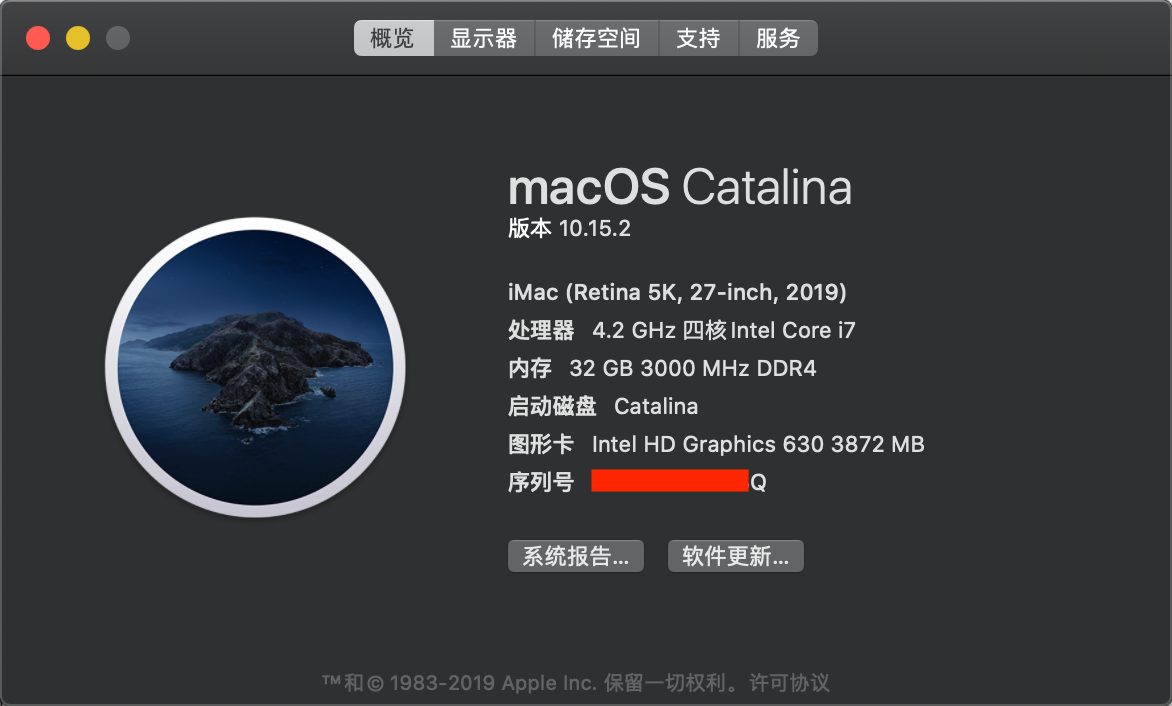
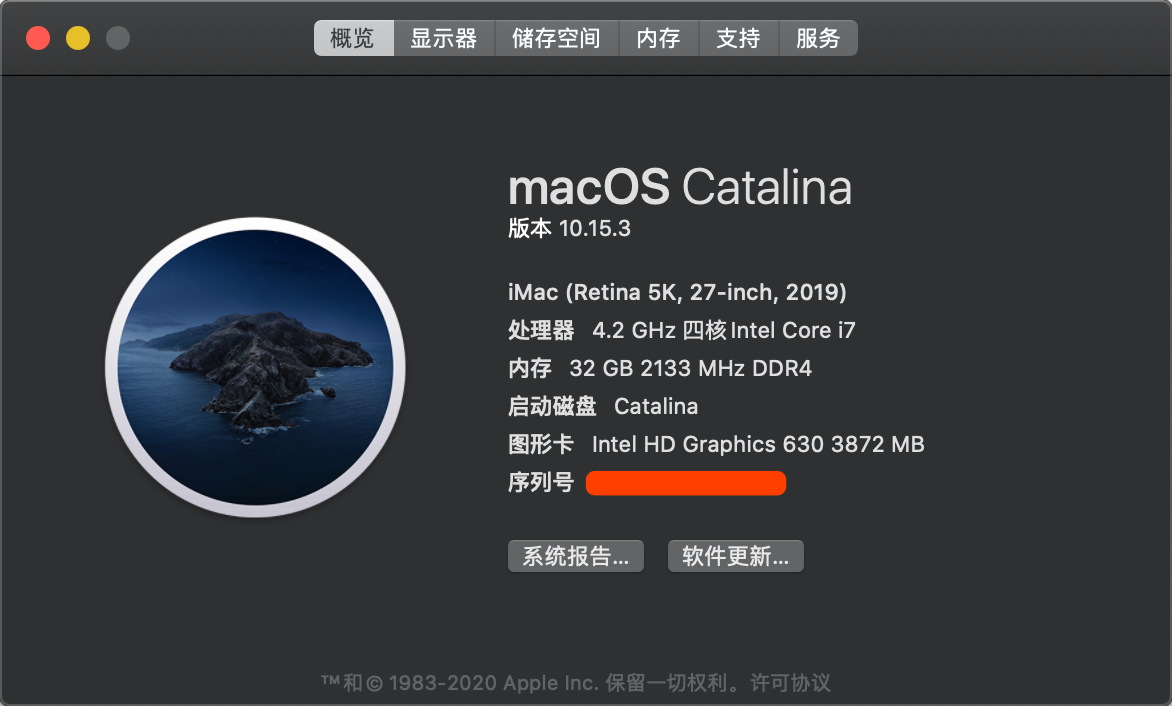
Update README

diff --git a/README.md b/README.md
@@ -1,12 +1,12 @@
-# HacMini:  Z270i + 7700K  + DDR4 3000MHz
+# HacMini:  Z270i + 7700K
 
-> OpenCore 引导测试中，具体配置可在 opencore 分支查看
+> OpenCore 引导测试中，请尽量在 U 盘中尝试。
 
 ### 引导
 
-**Clover Version**： [v2.5k r5070](https://sourceforge.net/projects/cloverefiboot/files/Installer/)
+**OpenCore Version**： [0.5.6](https://github.com/acidanthera/OpenCorePkg/releases)
 
-**macOS Version**：macOS Catalina 10.15.x
+**macOS Version**：macOS Catalina 10.15.3
 
 ### 配置单
 
@@ -23,25 +23,28 @@
 
 #### UEFIs
 
-* [AppleSupportPkg - 2.1.4](https://github.com/acidanthera/AppleSupportPkg) 
+* [AppleSupportPkg - 2.1.6](https://github.com/acidanthera/AppleSupportPkg) 
   * ApfsDriverLoader.efi
-
-* [AptioFixPkg - R27](https://github.com/acidanthera/AptioFixPkg/releases)
-  * AptioInputFix.efi
-  * AptioMemoryFix.efi
+* VBoxHfs.efi
+  
+* [OpenCorePkg - 0.5.6](https://github.com/acidanthera/OpenCorePkg)
+  * FwRuntimeServices.efi
 
 #### KEXTs
 
-* 驱动平台 [Lilu.kext - 1.4.0](https://github.com/acidanthera/Lilu)
-  * 声卡驱动 [AppleALC.kext - 1.4.4](https://github.com/acidanthera/AppleALC)
-  * 核心显卡驱动 [WhateverGreen.kext - 1.3.5](https://github.com/acidanthera/WhateverGreen)
-  * WiFi 驱动 [AirportBrcmFixup.kext - 2.0.4](https://github.com/acidanthera/AirportBrcmFixup)
-  * 蓝牙驱动 [BrcmPatchRAM  - 2.5.0](https://github.com/acidanthera/BrcmPatchRAM)
+* 驱动平台 [Lilu.kext - 1.4.2](https://github.com/acidanthera/Lilu)
+  * 声卡驱动 [AppleALC.kext - 1.4.7](https://github.com/acidanthera/AppleALC)
+  * 核心显卡驱动 [WhateverGreen.kext - 1.3.7](https://github.com/acidanthera/WhateverGreen)
+  * WiFi 驱动 [AirportBrcmFixup.kext - 2.0.6](https://github.com/acidanthera/AirportBrcmFixup)
+  * 蓝牙驱动 [BrcmPatchRAM  - 2.5.1](https://github.com/acidanthera/BrcmPatchRAM)
     * BrcmFirmwareData.kext
     * BrcmPatchRAM3.kext
     * BrcmBluetoothInjector.kext
-* USB 驱动：USBPort.kext 已定制
-* [FakeSMC.kext]()
+* USB 驱动：USBPort.kext + XHCI-unsupported.kext
+* [VirtualSMC.kext - 1.1.1](https://github.com/acidanthera/VirtualSMC/releases)
+  * SMCProcessor.kext
+  * SMCSuperIO.kext
+* 有线网卡：[IntelMausiEthernet.kext - 2.5.0](https://github.com/Mieze/IntelMausiEthernet)
 
 ### 支持功能
 
@@ -50,6 +53,8 @@
 * 无线：2.4G/5G WiFi 正常、蓝牙外设正常
 
 * [连接互通](https://support.apple.com/zh-cn/HT204681)：支持接力、通用剪贴板、iPhone 蜂窝网络电话、信息转发、智能热点、隔空投送等
+
+* USB 已定制，USB2.0 x 8, USB 3.0 x 5。（后置 TYPE-C 是鸡肋的 USB 3.1 gen1 ，因数量限制，暂未启用）
 
   
 
@@ -65,10 +70,10 @@
 
 ![About Mac](Screenshots/About.png)
 
-**WiFi**
+**Hackintool**
 
-![WiFi 3](Screenshots/WiFi-3.png)
+![Hackintool Capture1](Screenshots/Hackintool.png)
 
-**BlueTooth**
+**USB-Customized**
 
-![](Screenshots/BT-2.png)
+![Hackintool Capture2](Screenshots/USB-Customized.png)
